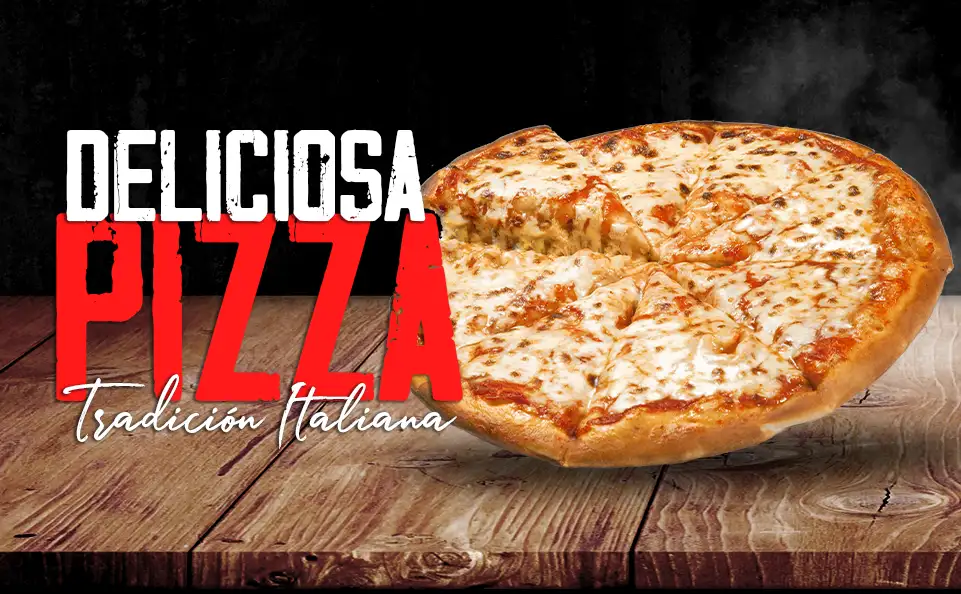
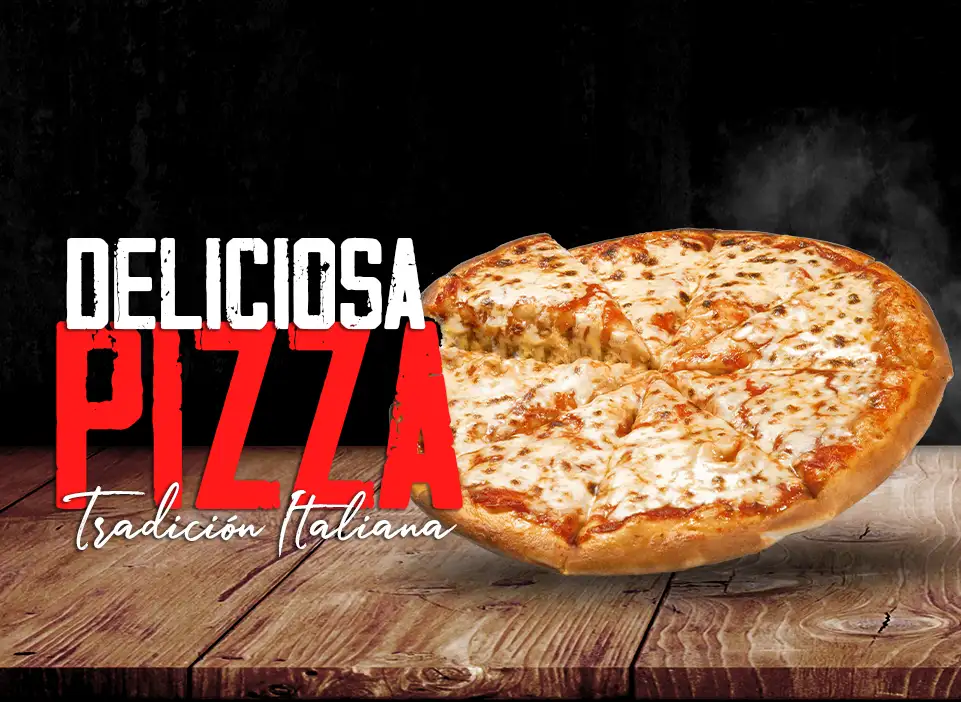
Cambio de cabecera

diff --git a/index.html b/index.html
@@ -13,33 +13,33 @@
   <main class="container">
 
     <head>
-      <img class="imagen__mobile" src="/images/home-mobile1.webp" alt="Imagen Encabezado">
+      <img class="imagen__mobile" src="/images/imagen-mobile-index-chico.webp" alt="Imagen Encabezado">
       <img class="imagen__desktop" src="images/home-desktop.webp" alt="Imagen Encabezado">
     </head>
     <section class="presentacion texto__inicio" id="presentacion">
-      <p>En <span class="sub">recetas fáciles</span> nuestra misión es hacer que la cocina diaria sea divertida. Creemos
+      <p>En <span class="sub sub--index">recetas fáciles</span> nuestra misión es hacer que la cocina diaria sea divertida. Creemos
         firmemente que cocinar es clave para que las personas, las comunidades y el planeta tengan una vida más sana y
         más feliz.</p>
     </section>
     <h1 class="titulo">Nuestras Recetas</span></h1>
     <section class="grid__recetas">
       <span class="img__recetas">
-        <a href="pizza.html"><img class="img__grid" src="images/item-pizza.webp">Pizza italiana</a>
+        <a href="pizza.html"><img class="img__grid" src="images/item-pizza.webp"><span>Pizza italiana</span> </a>
       </span>
       <span class="img__recetas">
-        <a href="hamburguesa.html"><img id="imgi" class="img__grid" src="images/item-hamburguesa.webp">Hamburguesa americana</a>
+        <a href="hamburguesa.html"><img id="imgi" class="img__grid" src="images/item-hamburguesa.webp"><span>Hamburguesa americana</span></a>
       </span>
       <span class="img__recetas">
-        <a href="#"><img class="img__grid" src="images/item-empanadas.webp">Empanadas criollas</a>
+        <a href="#"><img class="img__grid" src="images/item-empanadas.webp"><span>Empanadas criollas</span></a>
       </span>
       <span class="img__recetas">
-        <a href="#"><img class="img__grid" src="images/item-panfrances.webp">Pan francés</a>
+        <a href="#"><img class="img__grid" src="images/item-panfrances.webp"><span>Pan francés</span></a>
       </span>
       <span class="img__recetas">
-        <a href="#"><img class="img__grid" src="images/item-ravioles.webp">Ñoquis italianos</a>
+        <a href="#"><img class="img__grid" src="images/item-ravioles.webp"><span>Ravioles caseros</span></a>
       </span>
       <span class="img__recetas">
-        <a href="#"><img class="img__grid" src="images/item-tortilla.webp">Tortilla española</a>
+        <a href="#"><img class="img__grid" src="images/item-tortilla.webp"><span>Tortilla española</span></a>
       </span>
     </section>
 

diff --git a/index.css b/index.css
@@ -150,10 +150,14 @@ i {
   max-width: 960px;
 }
 
+.img__recetas span {
+  font-size: 1.1rem;
+}
+
 .img__grid {
   width: 100%;
   transition: all .5s ease-in-out;
-  border-radius: 2rem;
+  border-radius: 50%;
   border: 1px dashed var(--white-transp);
 }
 
@@ -172,8 +176,13 @@ i {
 
 .texto__inicio p {
   padding-top: 1rem;
-  font-size: 2rem;
+  font-size: 1.rem;
+  font-style: italic;
   line-height: 3.5rem;
+}
+
+.sub--index {
+  color: var(--verde);
 }
 
 /* Sección RECETAS */
